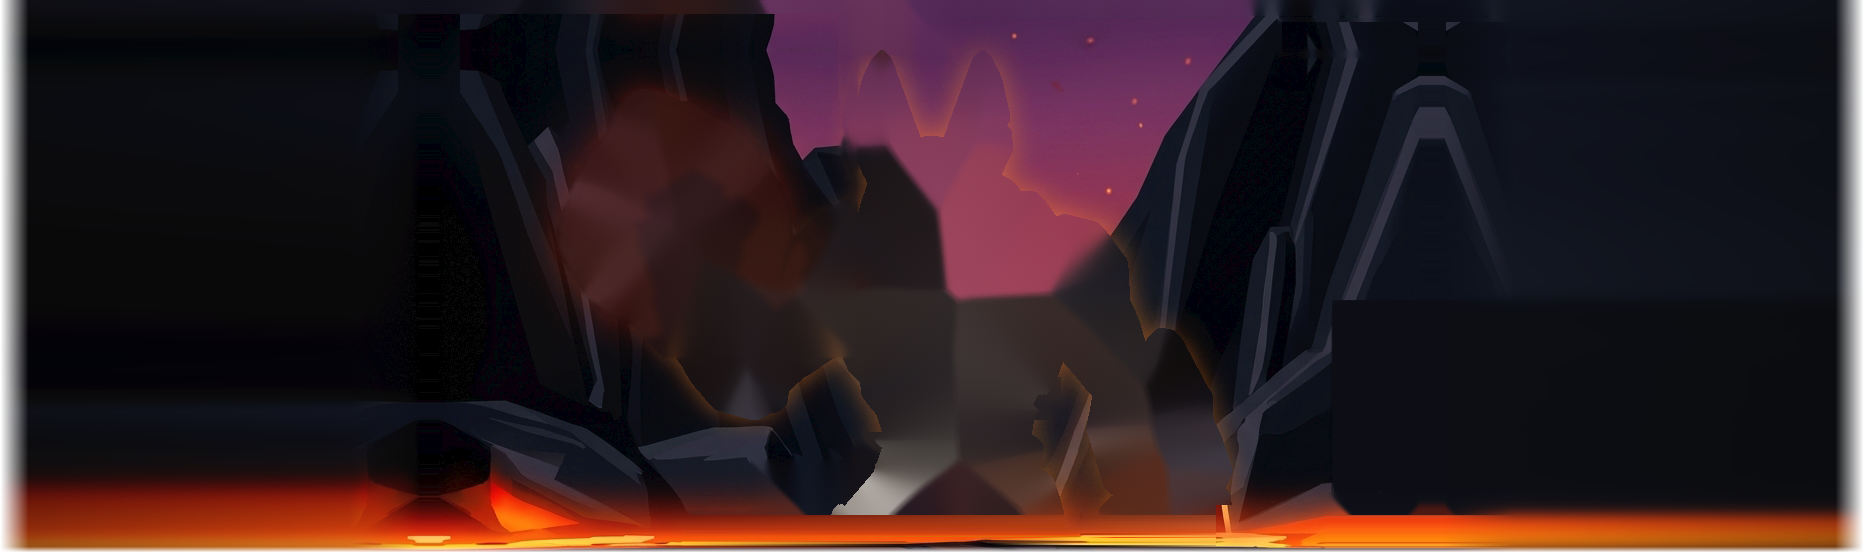
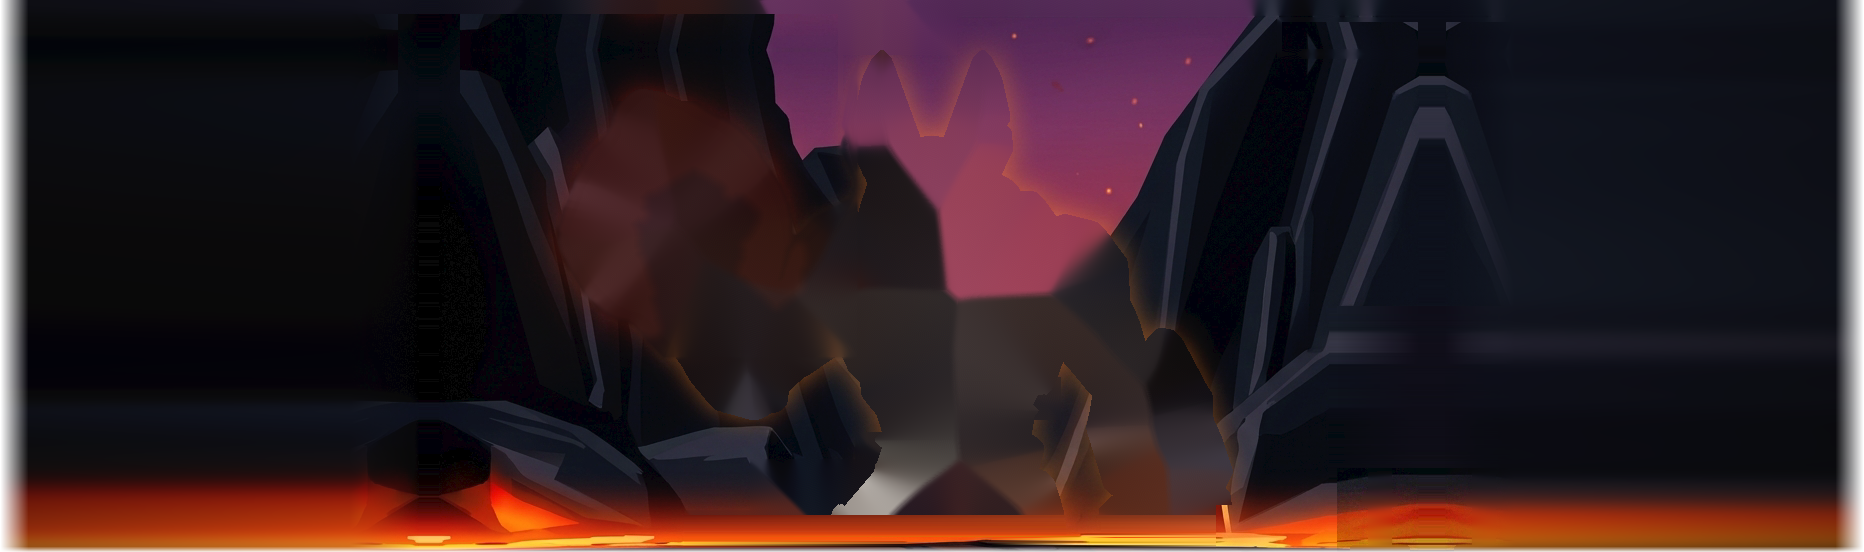
builder: climb gauge panel see-through at TARGET's alpha, the scene behind it recovered from TARGET; grader PASS
Claude-Session: https://claude.ai/code/session_01SVKwRE7XjZAQ44YbnjkWtX

Changed region(s): [[0.7157, 0.8623, 0.9957, 1.0], [0.7157, 0.5851, 0.7468, 0.6467]]

diff --git a/tools/gauge_unblend.py b/tools/gauge_unblend.py
@@ -1,0 +1,115 @@
+"""TARGET's scene behind its climb gauge, recovered from the panel over it.
+
+TARGET's gauge is a see-through dark panel: what lies behind it (the right
+cliff, the haze, the lava band, the floor's seams) reads through at about a
+third of its strength. The fight draws its own panel at the same face colour
+and alpha (combat_3d.GAUGE_FACE), so if the backdrop and the floor carry the
+scene un-blended, panel over scene lands back on TARGET's pixels
+(builder 2026-10-09 run 15, queue "Climb gauge panel: see-through").
+
+    scene = (TARGET - alpha * face) / (1 - alpha)
+
+The gauge's own marks (the rail, its ticks and bars, the burning sigil, the
+"+5" and the hunters' pips) are not scene: those pixels are filled along
+their row from the panel's clean pixels either side.
+
+Coordinates are TARGET.png's 1024 px.
+"""
+import numpy as np
+from scipy import ndimage as ndi
+
+# Must match combat_3d.GAUGE_FACE (sRGB 0..255 and alpha).
+FACE = np.array([0.06, 0.055, 0.07]) * 255.0
+ALPHA = 0.64
+# The panel's inside (inset from its border), TARGET px (x0, y0, x1, y1).
+PANEL = (917, 313, 1003, 722)
+# Its outer edge with the border line (x0, y0, x1, y1): the line is TARGET's
+# own panel, not scene; the fight draws its own.
+OUTER = (910, 306, 1010, 730)
+# The gauge's marks: (x0, y0, x1, y1) boxes, and the sigil's disc.
+MARKS = [
+    (950, 311, 970, 727),    # the rail
+    (935, 320, 985, 342),    # "+5"
+    (932, 424, 988, 452),    # top bar and its glow
+    (932, 547, 988, 575),    # lower bar and its glow
+    (944, 495, 976, 505),    # tick
+    (944, 620, 976, 630),    # tick
+    (944, 655, 976, 675),    # tick
+    (910, 668, 1010, 730),   # the hunters' pips and "S UP", edge to edge
+]
+SIGIL = ((959.0, 376.0), 44.0)
+# Rows above this inside the panel are cliff, carried across from its sides.
+UPPER_END = 468
+
+
+def marks_mask(shape):
+    m = np.zeros(shape, bool)
+    for x0, y0, x1, y1 in MARKS:
+        m[y0:y1, x0:x1] = True
+    yy, xx = np.mgrid[0:shape[0], 0:shape[1]]
+    (cx, cy), r = SIGIL
+    m |= (xx - cx) ** 2 + (yy - cy) ** 2 < r * r
+    return m
+
+
+def unblend(T: np.ndarray) -> np.ndarray:
+    """TARGET (H x W x 3, full 1024 rows) with the scene behind the panel."""
+    out = T.astype(float).copy()
+    x0, y0, x1, y1 = PANEL
+    reg = out[y0:y1, x0:x1]
+    scene = np.clip((reg - ALPHA * FACE) / (1.0 - ALPHA), 0, 255)
+    m = marks_mask(T.shape[:2])[y0:y1, x0:x1]
+    m = ndi.binary_dilation(m, iterations=2)
+    xs = np.arange(x1 - x0, dtype=float)
+    full = []
+    for y in range(y1 - y0):
+        bad = m[y]
+        if not bad.any():
+            continue
+        good = ~bad
+        if good.sum() < 2:
+            full.append(y)
+            continue
+        for k in range(3):
+            scene[y, bad, k] = np.interp(xs[bad], xs[good], scene[y, good, k])
+    # A light vertical smooth over the filled marks: the fill is per row.
+    sm = ndi.gaussian_filter(scene, (2.0, 0.0, 0.0))
+    scene = np.where(m[..., None], sm, scene)
+    # Rows the marks fill edge to edge (the pips and "S UP"): the clean rows
+    # above them mirrored down (un-blended, the marks drew a bright ghost).
+    runs = []
+    for y in full:
+        if runs and y == runs[-1][1] + 1:
+            runs[-1][1] = y
+        else:
+            runs.append([y, y])
+    n = scene.shape[0]
+    for a, b in runs:
+        for y in range(a, b + 1):
+            up = 2 * a - 1 - y
+            down = 2 * b + 1 - y
+            if up >= 0 and (a > 0):
+                scene[y] = scene[up]
+            elif down < n:
+                scene[y] = scene[down]
+    # Above the haze the scene behind is the right cliff's dark face, and
+    # the sigil's wide glow, un-blended, left bands and smears there: those
+    # rows are the cliff carried across from either side of the panel.
+    ox0, oy0, ox1, oy1 = OUTER
+    t = np.linspace(0.0, 1.0, x1 - x0)[:, None]
+    for y in range(y0, UPPER_END):
+        lft, rgt = out[y, ox0 - 1], out[y, ox1]
+        scene[y - y0] = lft[None, :] * (1 - t) + rgt[None, :] * t
+    out[y0:y1, x0:x1] = scene
+    # The border ring: each side carried in from the scene next to it (the
+    # recovered inside for the top and bottom, TARGET outside for the sides).
+    for y in range(oy0, oy1):
+        if y < y0:
+            out[y, ox0:ox1] = out[y0, ox0:ox1]
+        elif y >= y1:
+            out[y, ox0:ox1] = out[y1 - 1, ox0:ox1]
+    for x in range(ox0, x0):
+        out[oy0:oy1, x] = out[oy0:oy1, ox0 - 1]
+    for x in range(x1, ox1):
+        out[oy0:oy1, x] = out[oy0:oy1, ox1]
+    return out

diff --git a/tools/backdrop_cut.py b/tools/backdrop_cut.py
@@ -26,6 +26,7 @@ from scipy import ndimage as ndi
 
 sys.path.insert(0, str(Path(__file__).resolve().parent))
 import beast_rig as rig  # noqa: E402
+import gauge_unblend  # noqa: E402
 
 ROOT = Path(__file__).resolve().parent.parent
 OUT = ROOT / "game/assets/3d/cast/cinder_jackal_backdrop.png"
@@ -63,6 +64,7 @@ MIRROR = [(10, 14, 130, 96, "below"), (862, 22, 998, 54, "below"),
 # or mirrored fill read as a pillar or a portal (graders 2026-10-09).
 GAUGE = (909, 304, 1010, CUT + FADE)
 GAUGE_GLOW = 492                  # TARGET row where the lava glow starts
+GAUGE_UNBLEND = True              # the scene behind the see-through gauge recovered (tools/gauge_unblend.py), not a flat shade
 GAUGE_SHADE = (9.0, 12.0, 20.0)  # the right cliff's shadow tone, sampled
 # Over smooth sky an inpaint is clean: the intent chip and the top frame.
 HUD = [(424, 16, 532, 50), (10, 14, 418, 96), (862, 22, 998, 54)]   # the last two are mirrored over after
@@ -191,6 +193,10 @@ def build():
     # it is one flat shadow tone, the lava glow at its foot inpainted.
     gx0, gy0, gx1, gy1 = GAUGE
     T = T.copy()
+    if GAUGE_UNBLEND:
+        # The scene behind TARGET's see-through gauge, recovered: the fight's
+        # panel (same face and alpha) lands back on TARGET's pixels over it.
+        T = gauge_unblend.unblend(T)
     shade = np.zeros(T.shape[:2])
     shade[gy0 - 4:GAUGE_GLOW, gx0 + 3:gx1 - 3] = 1.0   # inside the panel's border (run 15)
     rect = shade > 0
@@ -198,8 +204,9 @@ def build():
     # Inside the panel only: its blur spilled ~10 px left of the gauge as a
     # dark band over TARGET's lava glow (grader run 15, "feet in the lava").
     shade = np.where(rect, np.clip(shade * 1.6, 0, 1), 0.0)[..., None]
-    T = T * (1 - shade) + np.array(GAUGE_SHADE) * shade
-    other[GAUGE_GLOW:gy1, gx0 - 2:gx1 + 2] = True
+    if not GAUGE_UNBLEND:
+        T = T * (1 - shade) + np.array(GAUGE_SHADE) * shade
+        other[GAUGE_GLOW:gy1, gx0 - 2:gx1 + 2] = True
     for (x0, y0, x1, y1) in rig.STONES + HUD + EXTRA:
         other[max(0, y0 - GROW):y1 + GROW, max(0, x0 - GROW):x1 + GROW] = True
     for (x0, y0, x1, y1) in BORDER:

diff --git a/tools/floor_cut.py b/tools/floor_cut.py
@@ -22,6 +22,9 @@ import cv2
 import numpy as np
 from PIL import Image
 from scipy import ndimage as ndi
+import sys
+sys.path.insert(0, str(Path(__file__).resolve().parent))
+import gauge_unblend  # noqa: E402
 
 ROOT = Path(__file__).resolve().parent.parent
 TARGET = ROOT / "design/art/targets/TARGET.png"
@@ -45,6 +48,7 @@ CARRY = 40                # rows under it whose seams are carried on, not mirror
 SHEAR = 2.3               # px right per row the carried seams slide
 GROW = 4
 GAUGE_MIRROR = True   # the floor under the climb gauge mirrored in from its left, not inpainted
+GAUGE_UNBLEND = True  # ...or, better, recovered from under TARGET's see-through panel
 SLAB_GROW = 2
 SLAB_SHADE = 0.85   # the floor's tone under the lowest slab, its shadow
 SIDE_FEATHER = 40
@@ -59,10 +63,16 @@ PAD_DARK = 0.25
 
 def build() -> None:
     T = np.asarray(Image.open(TARGET).convert("RGB"))
+    if GAUGE_UNBLEND:
+        # The floor behind TARGET's see-through gauge, recovered: the fight's
+        # panel lands back on TARGET's pixels over it (tools/gauge_unblend.py).
+        T = np.clip(gauge_unblend.unblend(T), 0, 255).astype(np.uint8)
     img = T[TOP:].copy()
     H, W = img.shape[:2]
     hole = np.zeros((H, W), bool)
     for i, (x0, y0, x1, y1) in enumerate(HOLES):
+        if i == 1 and GAUGE_UNBLEND:
+            continue
         if i == 0:
             # The lowest slab: its own pixels (pale grey, and its dark rim),
             # not its box. The box's corners showed past the fight's slab as
@@ -118,7 +128,7 @@ def build() -> None:
     # down onto the floor as a glow smear left of the gauge, and the floor's
     # seams stopped short of it (queue "Floor by the climb gauge", run 15).
     # The floor beside it is mirrored in instead, seams and all.
-    if GAUGE_MIRROR:
+    if GAUGE_MIRROR and not GAUGE_UNBLEND:
         gx0, gy0, gx1, gy1 = HOLES[1]
         a0, a1 = gx0 - GROW, min(W, gx1 + GROW)
         rows = slice(0, max(0, gy1 - TOP + GROW))

diff --git a/design/plan/BUILDER-QUEUE.md b/design/plan/BUILDER-QUEUE.md
@@ -195,10 +195,16 @@ run failed.
       Test: state=3d beast=cinder_jackal
       ![[agents/frames/builder/2026-10-09-gaugefloor-after.png|420]] ^floor-by-the-climb-gauge-no-orange-glow-
 
-- [ ] **Climb gauge panel: see-through, the lava showing through it.**
-      TARGET's gauge panel is translucent: the lava band, its glow and the floor seams read through it (square ~x640-705, y330-400). The game's panel is near-opaque dark there, with a darker top-right corner.
-      **Done when** the `--square` pair shows no visible difference inside the climb gauge panel.
-      Test: state=3d beast=cinder_jackal ^climb-gauge-panel-see-through-the-lava-s
+- [ ] 👀 **Climb gauge panel: see-through, the lava showing through it.**
+      ▶ [Test this now](obsidian://shell-commands/?vault=design&execute=fight-uri-beast&_beast=cinder_jackal) · [[BUILDER-QUEUE-NOTES#Climb gauge panel: see-through, the lava showing through it.|details]]
+      Ask: nothing
+      Test: state=3d beast=cinder_jackal
+      ![[agents/frames/builder/2026-10-09-gaugepanel-after.png|420]] ^climb-gauge-panel-see-through-the-lava-s
+
+- [ ] **Right of and under the climb gauge: lava and floor, not a dark box.**
+      Between the gauge panel and the square's right edge (square ~x707-720, y215-420) and under the panel's foot (~x645-720, y510-600) the game shows a flat dark strip and block; TARGET shows its lava band, glow and floor carrying on there.
+      **Done when** the `--square` pair shows no visible difference right of and below the climb gauge.
+      Test: state=3d beast=cinder_jackal ^right-of-and-under-the-climb-gauge-lava
 
 ## Waiting on Nick
 

diff --git a/design/plan/BUILDER-QUEUE-NOTES.md b/design/plan/BUILDER-QUEUE-NOTES.md
@@ -2541,3 +2541,13 @@ Found by measuring, not by eye: the jackal is TARGET's own pixels, so every crac
 - Grader: R1 FAIL (judged at --floor scale, "no visible change"), R2 PASS with a 6x close-up of the spot. VERDICT: PASS.
 - Frames: ![[agents/frames/builder/2026-10-09-cracks15-after.png|420]] ![[agents/frames/builder/2026-10-09-gaugefloor-after.png|420]]
 - Meshy: 0 credits.
+
+## Climb gauge panel: see-through, the lava showing through it.
+
+2026-10-09 12:20 EDT, builder (run 15). PASS.
+
+- **Measured TARGET's panel:** inside/outside at the lava band (81,34,15)/(226,68,19): a dark face at about 0.64 alpha. combat_3d `GAUGE_FACE` (0.06,0.055,0.07,0.64), `GAUGE_EDGE` alpha 0.6 (was the shared FLAT_FACE at 0.86).
+- **The scene behind it, recovered** (new tools/gauge_unblend.py, used by backdrop_cut.py and floor_cut.py in place of the flat GAUGE_SHADE and the mirrored floor): scene = (TARGET - 0.64 face) / 0.36 inside the panel; the gauge's own marks (rail, bars, ticks, sigil, "+5", pips) filled along their row, rows they fill edge to edge mirrored from the clean rows beside them, the cliff rows above the haze carried across from the panel's sides, the border ring carried in from outside. Panel mean abs error on the --square pair 8.68 -> 6.46.
+- **Grader:** R1 FAIL (pip ghosts, doubled bottom border, flat upper fill), R2 PASS (minor: band's lower edge a touch hard, seams a touch faint, panel top ~3 px low). VERDICT: PASS.
+- Frames: ![[agents/frames/builder/2026-10-09-gaugefloor-after.png|420]] ![[agents/frames/builder/2026-10-09-gaugepanel-after.png|420]]
+- Meshy: 0 credits.
